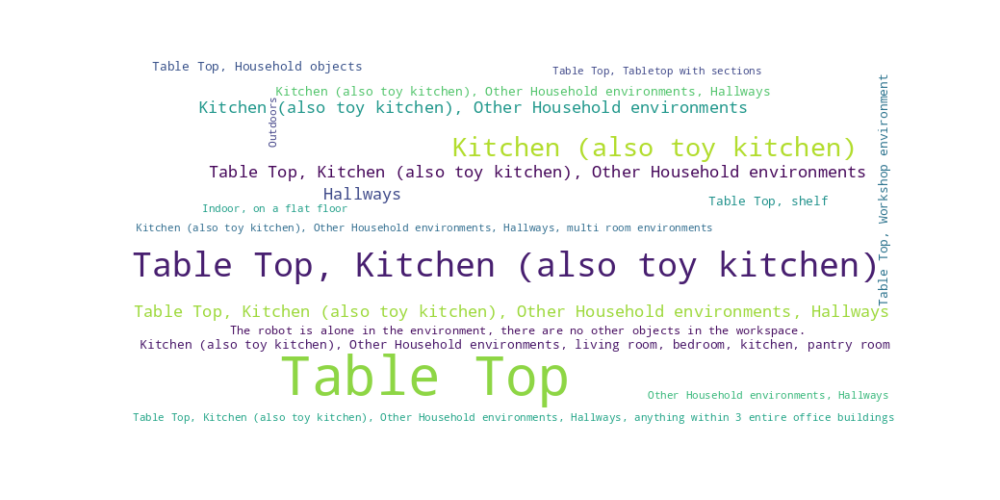
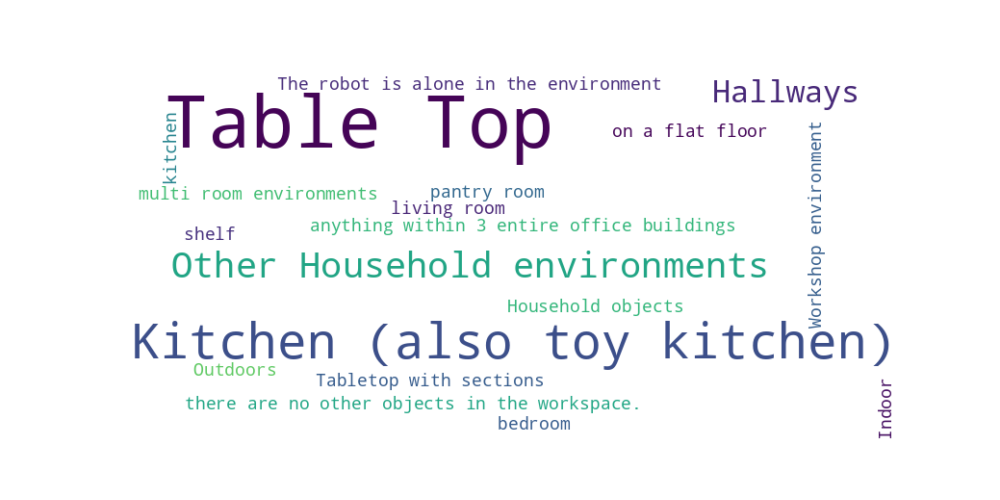
update statis

Changed region(s): [[0.124, 0.12, 0.899, 0.87]]

diff --git a/scripts/render_readme.py b/scripts/render_readme.py
@@ -149,15 +149,20 @@ class DatasetList:
         from wordcloud import WordCloud
         import matplotlib.pyplot as plt
 
-        # Collect scene types and their counts
+        # 1 Collect scene types and their counts
         scene_counts = {}
         for cls_name in self.datasets_with_cls_name:
             for dataset in self.datasets_with_cls_name[cls_name]:
                 scene_type = dataset.meta_info['scene_type']
-                if scene_type in scene_counts:
-                    scene_counts[scene_type] += 1
-                else:
-                    scene_counts[scene_type] = 1
+                scene_type = scene_type.strip()
+                for scene in scene_type.split(','):
+                    scene = scene.strip()
+                    if len(scene) == 0:
+                        continue
+                    if scene in scene_counts:
+                        scene_counts[scene] += 1
+                    else:
+                        scene_counts[scene] = 1
 
         # Generate word cloud
         wordcloud = WordCloud(width=800, height=400, background_color='white').generate_from_frequencies(scene_counts)
@@ -170,8 +175,11 @@ class DatasetList:
         plt.savefig(wordcloud_path, format='png')
         plt.close()
 
-        # Add word cloud to markdown
-        markdown = f"### Scene Type Distribution Word Cloud![Scene Word Cloud](./assets/scene_wordcloud.png)"
+        scene_markdown = f"### Scene Type Distribution Word Cloud\n\n![Scene Word Cloud](./assets/scene_wordcloud.png)"
+
+        # 2 todo
+
+        markdown = scene_markdown
         return markdown
 
     def trending_markdown(self) -> str:

diff --git a/README.md b/README.md
@@ -15,7 +15,7 @@
 
 > [!NOTE]
 > - Total datasets: 72
-> - Latest Update:  2025-05-21
+> - Latest Update:  2025-05-23
 
 
 # Contents
@@ -51,7 +51,9 @@
 
 
 ## <a name="statistics"></a>Statistics
-### Scene Type Distribution Word Cloud![Scene Word Cloud](./assets/scene_wordcloud.png)
+### Scene Type Distribution Word Cloud
+
+![Scene Word Cloud](./assets/scene_wordcloud.png)
 
 ## <a name="newly-released"></a>Newly Released
 
